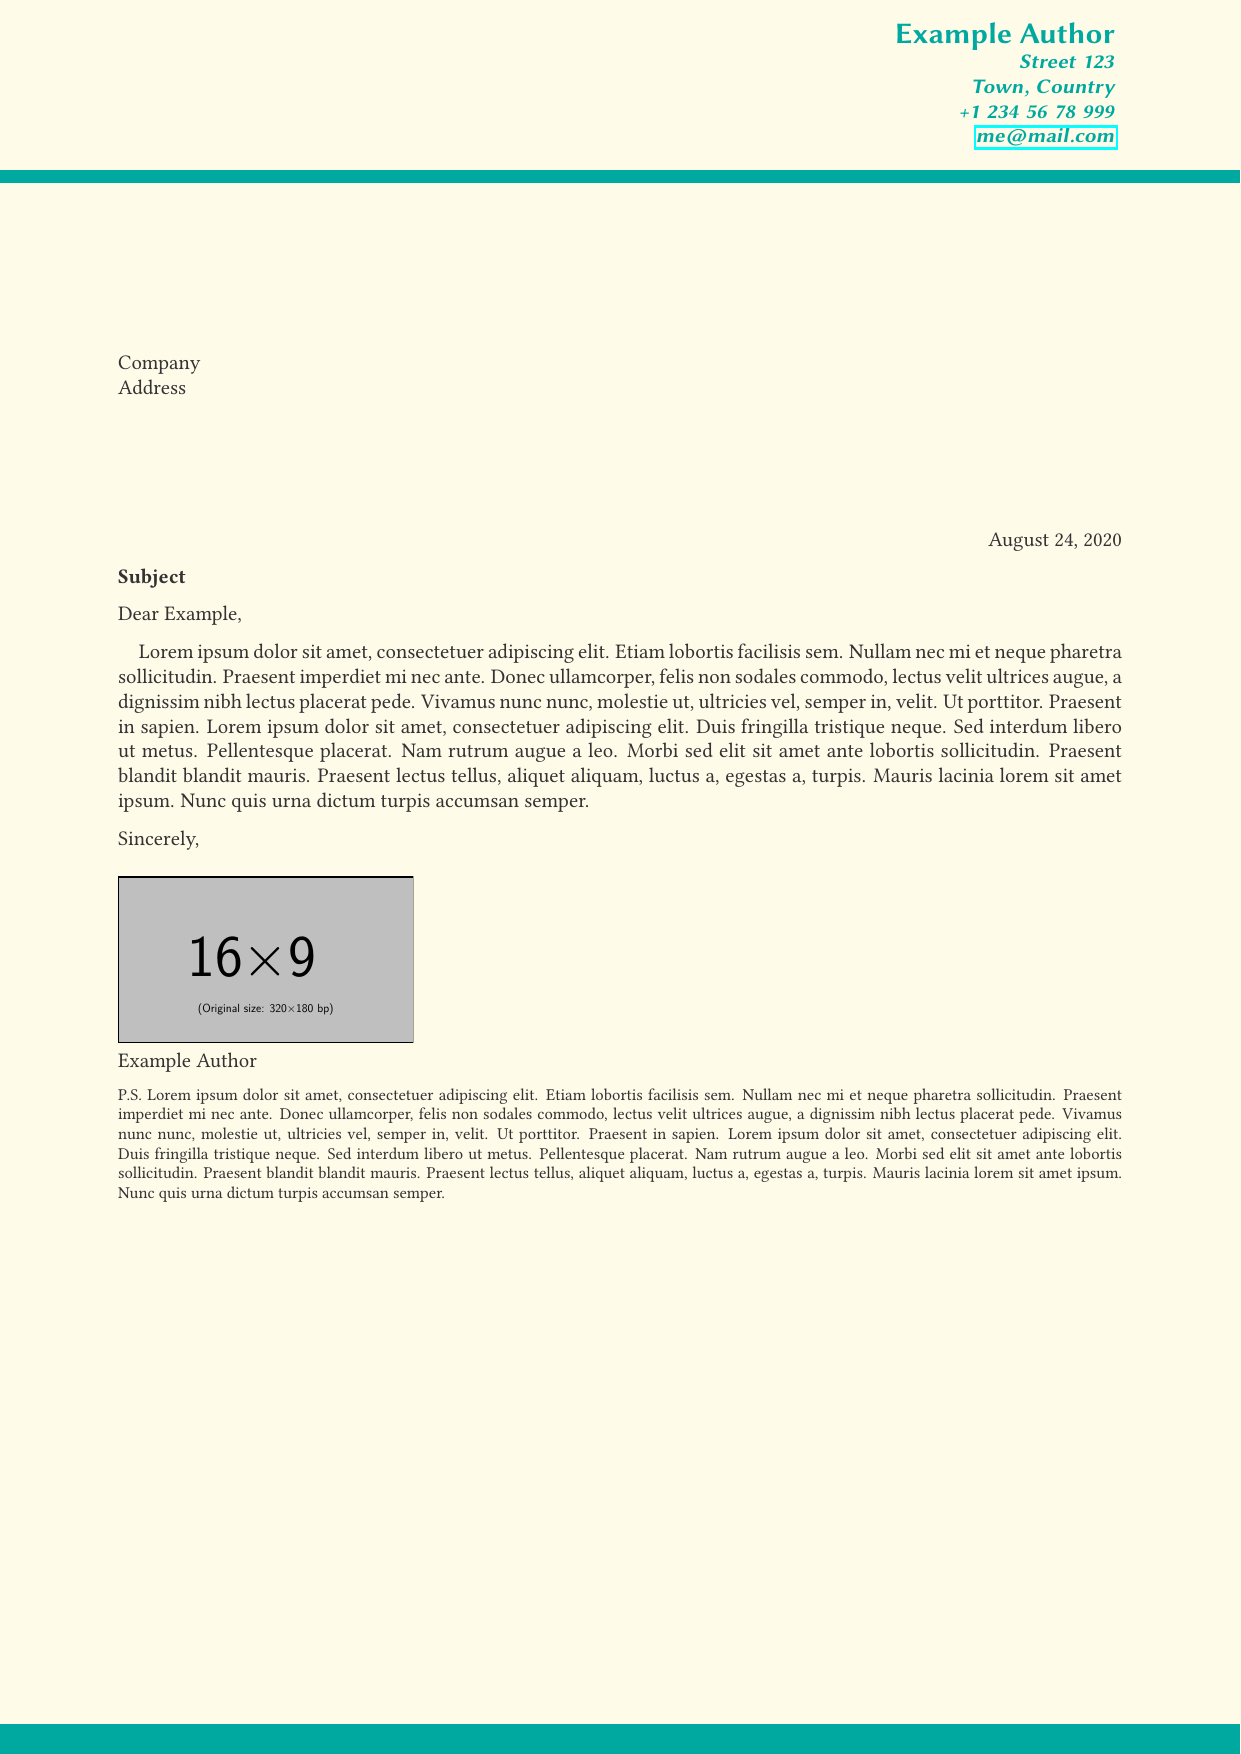
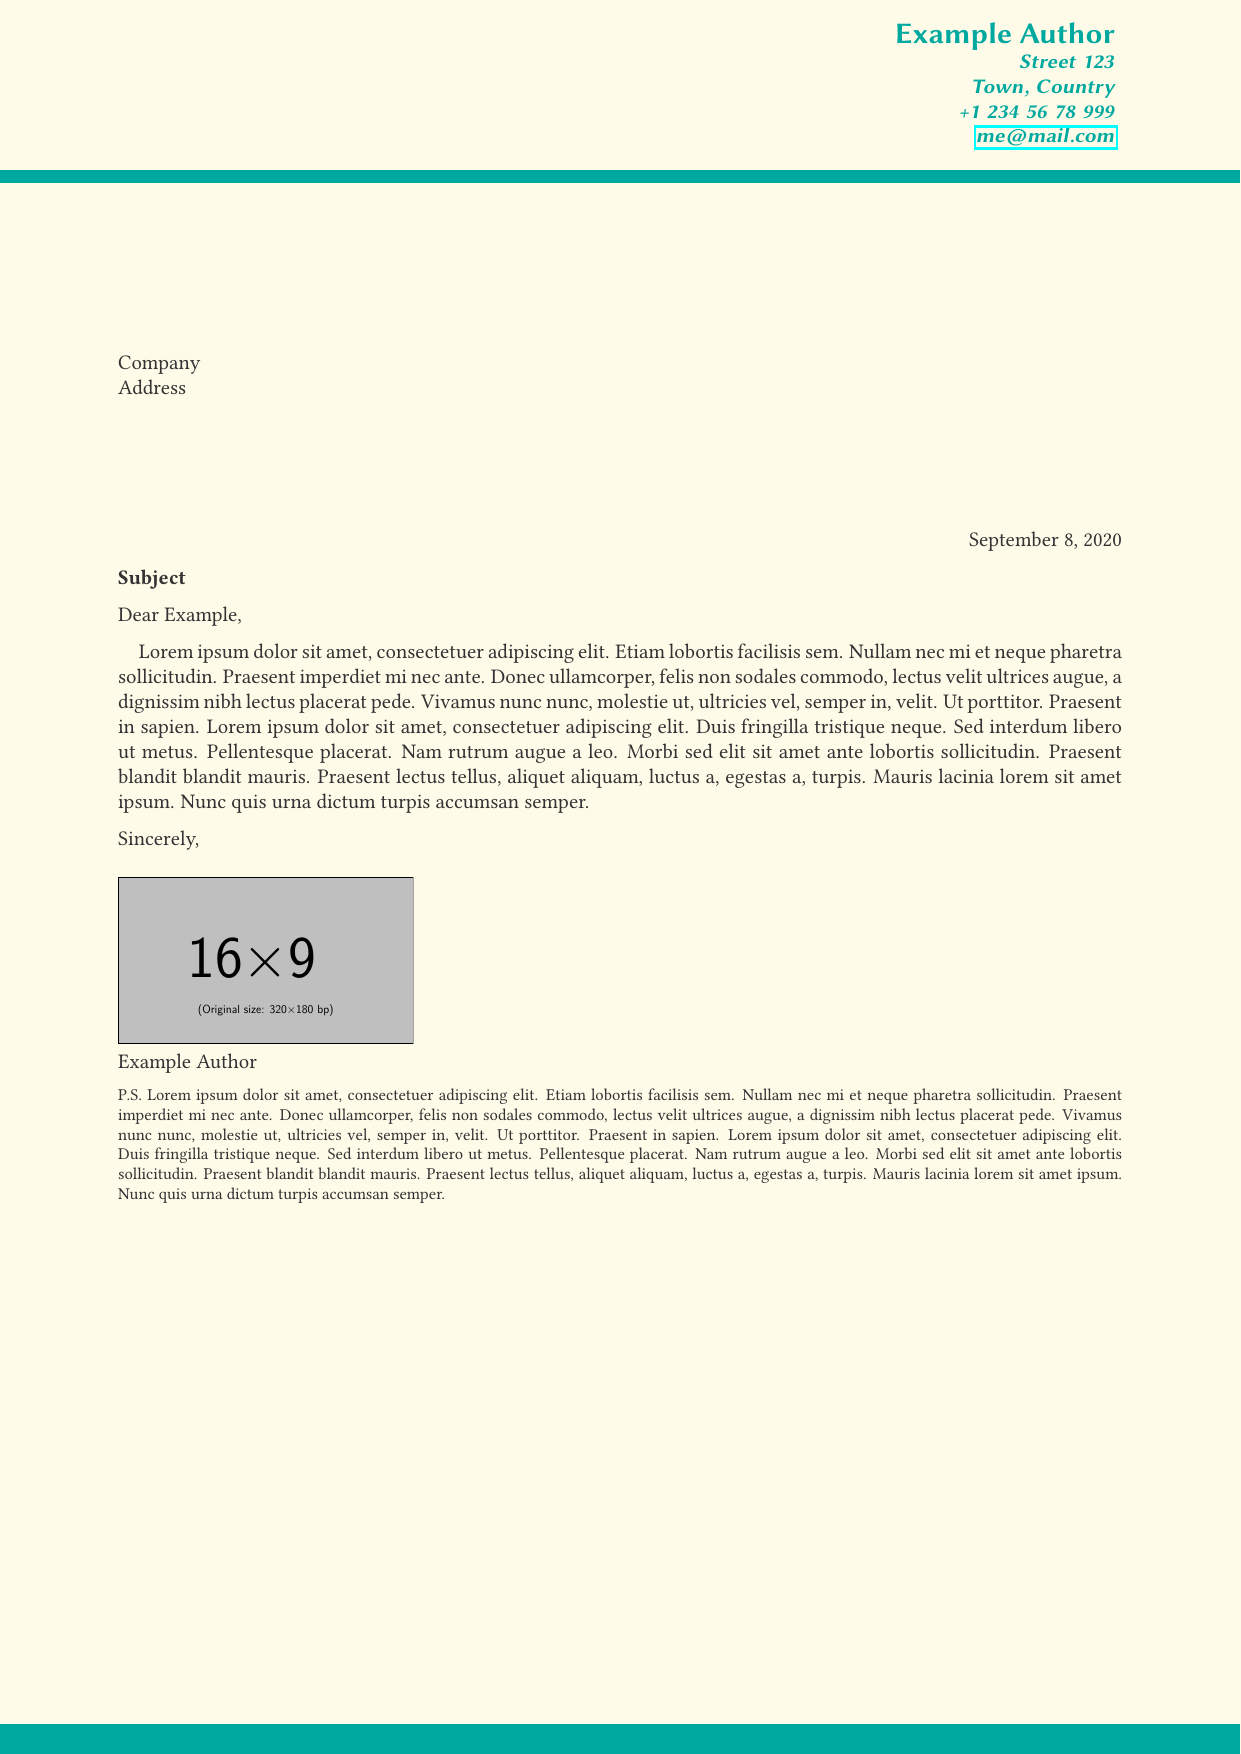
Update version & date, recompile -> push #7 to RC

diff --git a/examples/skill-redefinition-side/main.tex b/examples/skill-redefinition-side/main.tex
@@ -27,7 +27,6 @@
   \cvline{\levelbarcircles[0.8\linewidth]{#2}}{#1}}
 
 % Redefine the skill setup in the sidebar
-% This is a v1.0 workaround
 \renewcommand{\sidebarskill}[2]{%
   \sbline{#1}{\levelbarcircles[\linewidth]{#2}}}
 
